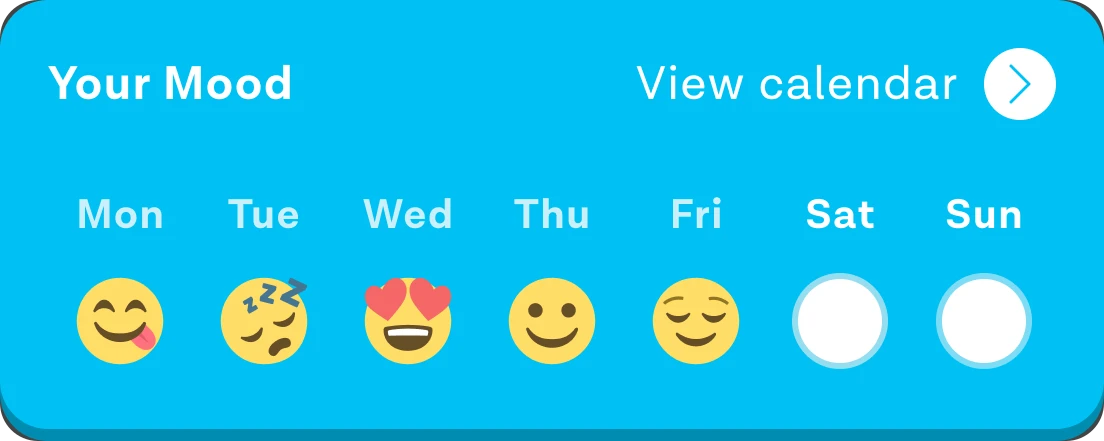
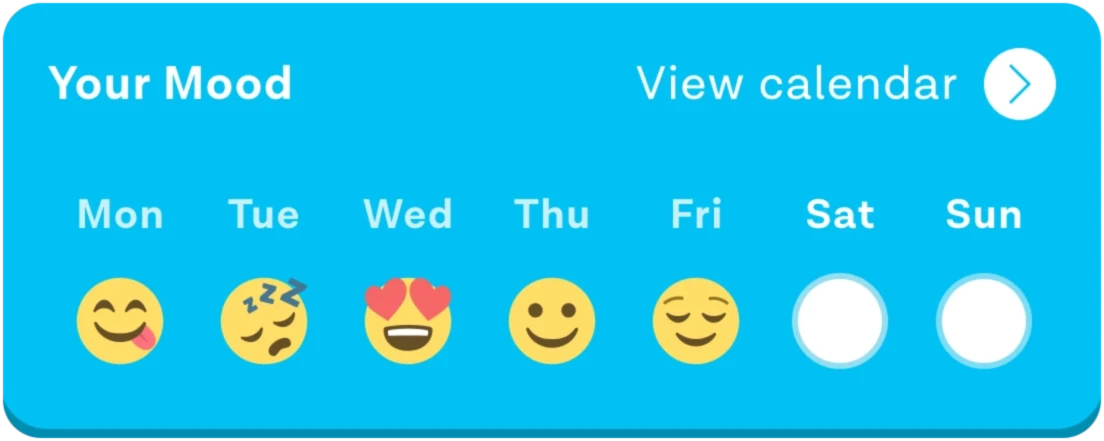
Refine platform floating cards: mask hover sheen to the card shape
Clip each floating card's hover sheen with the card image itself (every export
carries transparent rounded corners) rather than a matching CSS radius, dropping
the per-card radiusClassName and its double-rounding. Reposition the floating
cards and swap in updated webp card assets (moodmonitor, challengeselect,
empower NPS/burnout).

diff --git a/src/components/blocks/TabbedPanel.tsx b/src/components/blocks/TabbedPanel.tsx
@@ -197,7 +197,6 @@ function FloatingTiltCard({
   width,
   height,
   widthClassName,
-  radiusClassName,
   bobDelay,
   bobDuration,
 }: {
@@ -206,7 +205,6 @@ function FloatingTiltCard({
   width: number;
   height: number;
   widthClassName: string;
-  radiusClassName: string;
   bobDelay: string;
   bobDuration: string;
 }) {
@@ -218,13 +216,28 @@ function FloatingTiltCard({
       style={{ "--bob-delay": bobDelay, "--bob-duration": bobDuration } as React.CSSProperties}
     >
       <div
-        className={`platform-floating-card-tilt overflow-hidden ${radiusClassName} ${widthClassName}`}
+        className={`platform-floating-card-tilt overflow-hidden ${widthClassName}`}
         onPointerMove={handlePointerMove}
         onPointerLeave={handlePointerLeave}
       >
         {/* eslint-disable-next-line @next/next/no-img-element -- static export; drop-shadow filter needs the raw element */}
         <img src={src} alt={alt} width={width} height={height} className="h-auto w-full" />
-        <div className="platform-floating-card-sheen" aria-hidden />
+        {/* Sheen is clipped to the card's exact shape by masking it with the card
+            image — every card asset carries its own transparent rounded corners, so
+            this keeps the hover spotlight inside the corner radius at any size (no
+            CSS radius to match, no double-rounding of the image). */}
+        <div
+          className="platform-floating-card-sheen"
+          aria-hidden
+          style={{
+            WebkitMaskImage: `url(${src})`,
+            maskImage: `url(${src})`,
+            WebkitMaskSize: "100% 100%",
+            maskSize: "100% 100%",
+            WebkitMaskRepeat: "no-repeat",
+            maskRepeat: "no-repeat",
+          }}
+        />
       </div>
     </div>
   );
@@ -239,7 +252,6 @@ type FloatingCardConfig = {
   width: number;
   height: number;
   widthClassName: string;
-  radiusClassName: string;
   bobDelay: string;
   bobDuration: string;
 };
@@ -251,16 +263,12 @@ const FLOATING_CARDS: Record<string, FloatingCardConfig[]> = {
     {
       key: "challenge",
       cornerClassName:
-        "absolute -left-[24px] top-[24px] z-10 hidden tablet:block tablet:-left-[32px] desktop:-left-[40px] desktop:top-[40px]",
+        "absolute -left-[24px] top-[80px] z-10 hidden tablet:block tablet:-left-[32px] desktop:-left-[40px]",
       src: "/home/platform/engage-challenge-card.webp",
       alt: "Challenge select card showing a 10-minute Meditation challenge worth 120 YuCoin",
       width: 165,
       height: 212,
       widthClassName: "w-[120px] tablet:w-[140px] desktop:w-[165px]",
-      // The export already has transparent rounded corners (masked at ~13px @165w),
-      // so this radius doesn't re-cut the image — it clips the hover sheen to the
-      // card's rounded shape. Scaled to the card's rendered width per breakpoint.
-      radiusClassName: "rounded-[11px] desktop:rounded-[13px]",
       bobDelay: "0.4s",
       bobDuration: "5s",
     },
@@ -268,29 +276,23 @@ const FLOATING_CARDS: Record<string, FloatingCardConfig[]> = {
   prevent: [
     {
       key: "mood",
-      cornerClassName: "absolute -left-8 bottom-24 z-10 hidden tablet:block desktop:-left-24",
+      cornerClassName: "absolute -left-8 bottom-[80px] z-10 hidden tablet:block desktop:-left-24",
       src: "/home/platform/moodmonitor-card.webp",
       alt: "Your Mood tracker showing a week of mood check-ins",
       width: 368,
       height: 147,
       widthClassName: "w-[220px] tablet:w-[280px] desktop:w-[361px]",
-      // Matches the ~12.7px corner radius baked into the asset itself — the
-      // theme's rounded-md (16px) clipped into the card's own border.
-      radiusClassName: "rounded-[12px]",
       bobDelay: "0s",
       bobDuration: "4.6s",
     },
     {
       key: "challengeselect",
-      cornerClassName: "absolute -right-8 top-24 z-10 hidden tablet:block desktop:-right-24",
+      cornerClassName: "absolute -right-8 top-[80px] z-10 hidden tablet:block desktop:-right-24",
       src: "/home/platform/challengeselect-card.webp",
-      alt: "Challenge select card showing a 10-minute Meditation challenge worth 120 YuCoin",
+      alt: "Challenge select card showing a 5-minute Breathing challenge worth 180 YuCoin",
       width: 166,
-      height: 214,
+      height: 213,
       widthClassName: "w-[120px] tablet:w-[150px] desktop:w-[166px]",
-      // Matches the ~12.7px corner radius baked into the asset itself — the
-      // theme's rounded-lg (24px) clipped into the card's own border.
-      radiusClassName: "rounded-[12px]",
       bobDelay: "0.9s",
       bobDuration: "5.3s",
     },
@@ -298,25 +300,23 @@ const FLOATING_CARDS: Record<string, FloatingCardConfig[]> = {
   empower: [
     {
       key: "nps",
-      cornerClassName: "absolute -left-8 top-24 z-10 hidden tablet:block desktop:-left-24",
-      src: "/home/platform/empower-nps-card.png",
+      cornerClassName: "absolute -left-8 top-[80px] z-10 hidden tablet:block desktop:-left-24",
+      src: "/home/platform/empower-nps-card.webp",
       alt: "Employee NPS score of 72, with a detractors, passives, and promoters breakdown",
-      width: 357,
-      height: 400,
-      widthClassName: "w-[215px] tablet:w-[275px] desktop:w-[357px]",
-      radiusClassName: "rounded-sm",
+      width: 312,
+      height: 304,
+      widthClassName: "w-[200px] tablet:w-[245px] desktop:w-[311px]",
       bobDelay: "0s",
       bobDuration: "4.9s",
     },
     {
       key: "burnout",
-      cornerClassName: "absolute -right-8 bottom-24 z-10 hidden tablet:block desktop:-right-24",
-      src: "/home/platform/empower-burnout-card.png",
+      cornerClassName: "absolute -right-8 bottom-[80px] z-10 hidden tablet:block desktop:-right-24",
+      src: "/home/platform/empower-burnout-card.webp",
       alt: "Burnout risk distribution across high, neutral, and low risk",
-      width: 357,
-      height: 189,
-      widthClassName: "w-[215px] tablet:w-[275px] desktop:w-[357px]",
-      radiusClassName: "rounded-sm",
+      width: 316,
+      height: 144,
+      widthClassName: "w-[205px] tablet:w-[250px] desktop:w-[316px]",
       bobDelay: "1.1s",
       bobDuration: "5.6s",
     },
